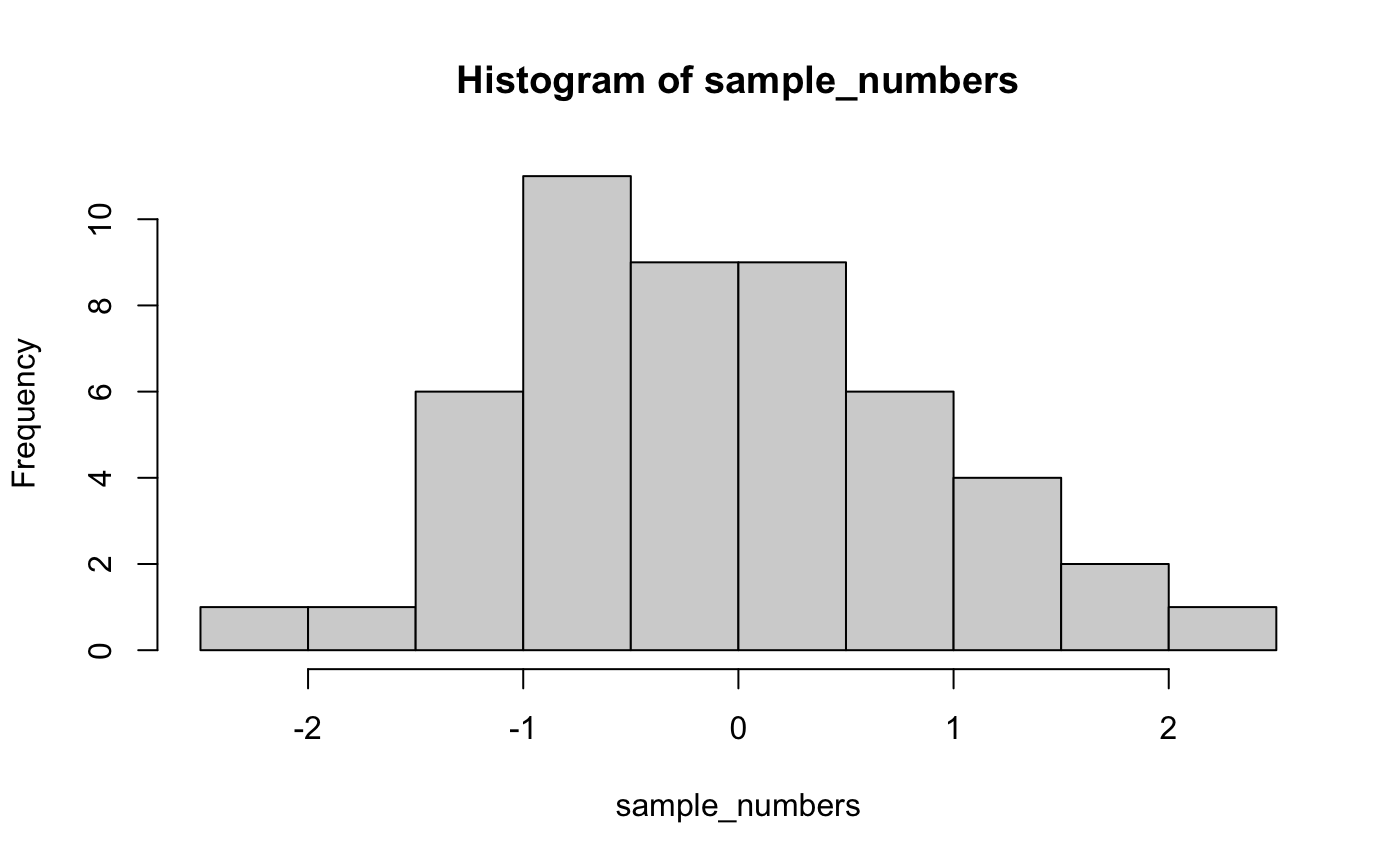
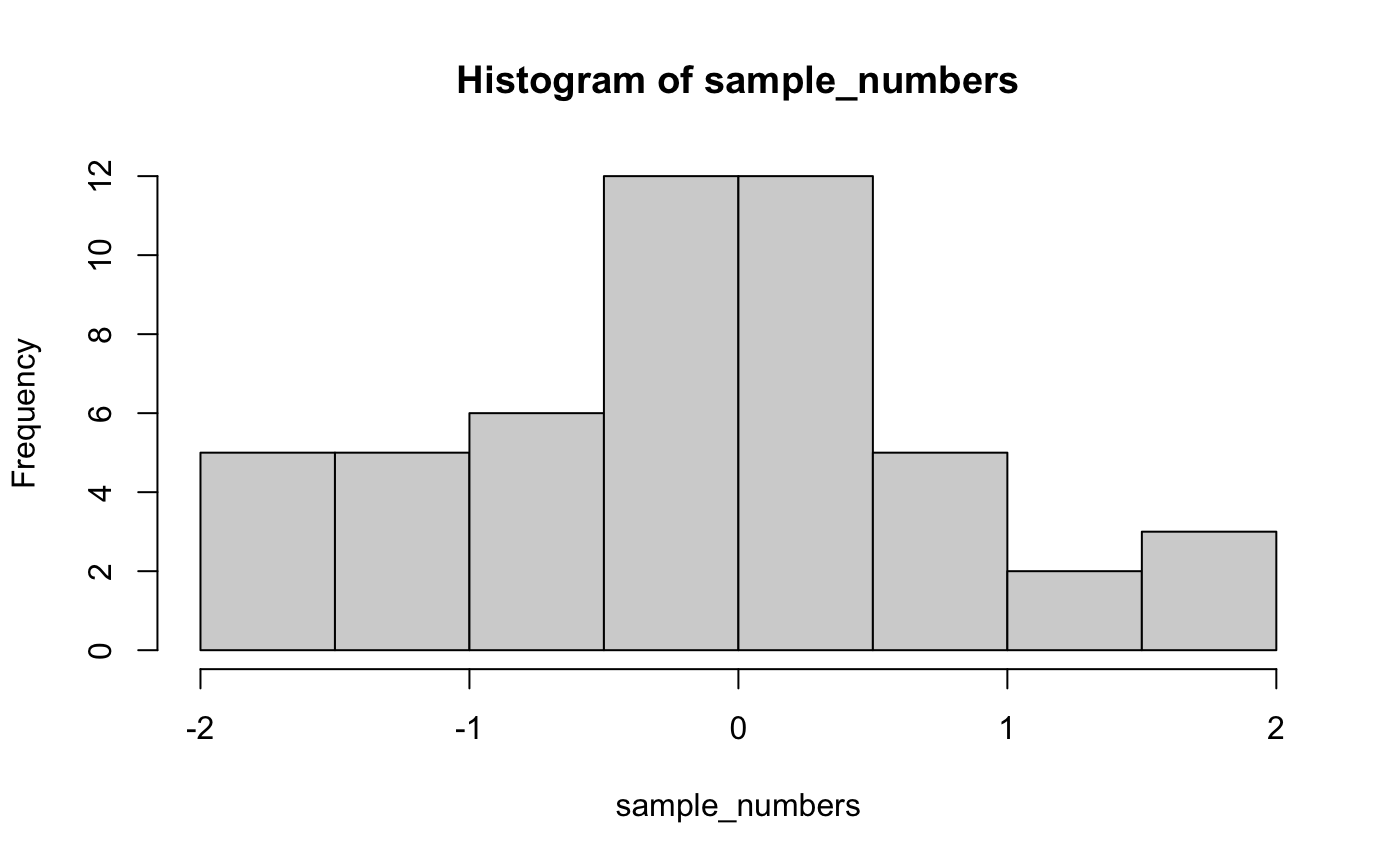
add lab 1 walkthrough

diff --git a/docs/articles/Lab2_Descriptives.html b/docs/articles/Lab2_Descriptives.html
@@ -149,9 +149,9 @@
 <p><img src="Lab2_Descriptives_files/figure-html/unnamed-chunk-3-1.png" width="700"></p>
 <div class="sourceCode" id="cb3"><html><body><pre class="r">
 <span class="fu"><a href="https://rdrr.io/r/base/mean.html">mean</a></span>(<span class="no">sample_numbers</span>)
-<span class="co">#&gt; [1] -0.09689684</span>
+<span class="co">#&gt; [1] -0.1497024</span>
 <span class="fu"><a href="https://rdrr.io/r/stats/sd.html">sd</a></span>(<span class="no">sample_numbers</span>)
-<span class="co">#&gt; [1] 0.9363363</span></pre></body></html></div>
+<span class="co">#&gt; [1] 0.8615013</span></pre></body></html></div>
 </div>
 <div id="central-tendency" class="section level2">
 <h2 class="hasAnchor">
@@ -253,8 +253,90 @@
 
 <span class="fu"><a href="https://rdrr.io/r/base/sum.html">sum</a></span>(<span class="no">scores</span>-<span class="fu"><a href="https://rdrr.io/r/base/mean.html">mean</a></span>(<span class="no">scores</span>)) <span class="co"># the sum</span>
 <span class="co">#&gt; [1] 0</span></pre></body></html></div>
-<p>But, let’s use R to approximate the value of the mean by trying out different values, rather than by computing the mean first. For example, we previously tried a 5, and the sum of the deviations was not 0. What if we tried a bunch of numbers, say from the lowest number (1) to the highest number (64)? Each time we could compute the deviations, and the sum of the deviations. We could record the outcome for each test. Then we could look out our results and see which of the numbers comes closest to creating a sum of deviations that equals 0.</p>
-<p>This will require 64 individual tests, and that is too much do to by hand. Fortunately, we can use R to accomplish these goals very quickly.</p>
+<p>But, let’s use R to approximate the value of the mean by trying out different values, rather than by computing the mean first. For example, we previously tried a 5, and the sum of the deviations was not 0. What if we tried a bunch of numbers, say from the lowest number (1) to the highest number (64)? Each time we could compute the deviations, and the sum of the deviations. We could record the outcome for each test. Then we could look out our results and see which of the numbers comes closest to creating a sum of deviations that equals 0. This will require 64 individual tests, and that is too much do to by hand. Fortunately, we can use R to accomplish these goals very quickly.</p>
+<p>Basically, this is this the process of what I want to do…but I don’t want to write 64 lines of code either…</p>
+<div class="sourceCode" id="cb12"><html><body><pre class="r"><span class="fu"><a href="https://rdrr.io/r/base/sum.html">sum</a></span>(<span class="no">scores</span>-<span class="fl">1</span>)
+<span class="co">#&gt; [1] 99</span>
+<span class="fu"><a href="https://rdrr.io/r/base/sum.html">sum</a></span>(<span class="no">scores</span>-<span class="fl">2</span>)
+<span class="co">#&gt; [1] 88</span>
+<span class="fu"><a href="https://rdrr.io/r/base/sum.html">sum</a></span>(<span class="no">scores</span>-<span class="fl">3</span>)
+<span class="co">#&gt; [1] 77</span>
+<span class="fu"><a href="https://rdrr.io/r/base/sum.html">sum</a></span>(<span class="no">scores</span>-<span class="fl">4</span>)
+<span class="co">#&gt; [1] 66</span>
+<span class="fu"><a href="https://rdrr.io/r/base/sum.html">sum</a></span>(<span class="no">scores</span>-<span class="fl">5</span>)
+<span class="co">#&gt; [1] 55</span>
+<span class="fu"><a href="https://rdrr.io/r/base/sum.html">sum</a></span>(<span class="no">scores</span>-<span class="fl">6</span>)
+<span class="co">#&gt; [1] 44</span>
+<span class="co">## and so on to 64</span></pre></body></html></div>
+<p>If we want to repeatedly apply a similar computation in R, remember we can use a <code>for</code> loop. We will test all of the integers between the smallest value and largest value. So, we first create a sequence of those numbers called <code>numbers_to_test</code>. And, then we use a loop to compute the sum of deviations between the scores and each of the test numbers.</p>
+<div class="sourceCode" id="cb13"><html><body><pre class="r"><span class="fu"><a href="https://rdrr.io/r/base/Extremes.html">min</a></span>(<span class="no">scores</span>)
+<span class="co">#&gt; [1] 1</span>
+<span class="fu"><a href="https://rdrr.io/r/base/Extremes.html">max</a></span>(<span class="no">scores</span>)
+<span class="co">#&gt; [1] 64</span>
+<span class="no">numbers_to_test</span> <span class="kw">&lt;-</span> <span class="fu"><a href="https://rdrr.io/r/base/Extremes.html">min</a></span>(<span class="no">scores</span>):<span class="fu"><a href="https://rdrr.io/r/base/Extremes.html">max</a></span>(<span class="no">scores</span>)
+
+<span class="no">sum_deviations</span> <span class="kw">&lt;-</span><span class="fu"><a href="https://rdrr.io/r/base/c.html">c</a></span>() <span class="co"># create an empty vector to store sums</span>
+<span class="kw">for</span>(<span class="no">i</span> <span class="kw">in</span> <span class="no">numbers_to_test</span>) {
+  <span class="no">sum_deviations</span>[<span class="no">i</span>] <span class="kw">&lt;-</span> <span class="fu"><a href="https://rdrr.io/r/base/sum.html">sum</a></span>(<span class="no">scores</span>-<span class="no">i</span>)
+}
+
+<span class="no">sum_deviations</span>
+<span class="co">#&gt;  [1]   99   88   77   66   55   44   33   22   11    0  -11  -22  -33  -44  -55</span>
+<span class="co">#&gt; [16]  -66  -77  -88  -99 -110 -121 -132 -143 -154 -165 -176 -187 -198 -209 -220</span>
+<span class="co">#&gt; [31] -231 -242 -253 -264 -275 -286 -297 -308 -319 -330 -341 -352 -363 -374 -385</span>
+<span class="co">#&gt; [46] -396 -407 -418 -429 -440 -451 -462 -473 -484 -495 -506 -517 -528 -539 -550</span>
+<span class="co">#&gt; [61] -561 -572 -583 -594</span></pre></body></html></div>
+<p>We just computed 64 sums of deviations, and the results are displayed above. Our question was to approximate the mean, by finding a value that produces a sum of deviations closest to 0. Let’s discuss three ways to get at the answer. First, we could look at the above sums and see that the 10th value is a 0, this means that the number 10 produced the sum of deviations closest to 0 (equaling 0 because 10 is the mean).</p>
+</div>
+<div id="plotting-the-results" class="section level3">
+<h3 class="hasAnchor">
+<a href="#plotting-the-results" class="anchor"></a>Plotting the results</h3>
+<p>Second, we could visualize the sum of the deviations. We could quickly do that with the <code><a href="https://rdrr.io/r/base/plot.html">plot()</a></code> function.</p>
+<div class="sourceCode" id="cb14"><html><body><pre class="r"><span class="fu"><a href="https://rdrr.io/r/base/plot.html">plot</a></span>(<span class="no">sum_deviations</span>)</pre></body></html></div>
+<p><img src="Lab2_Descriptives_files/figure-html/unnamed-chunk-14-1.png" width="700"></p>
+<p>We are looking for the value on the x-axis that causes the sum of the deviations on the y-axis to be closest to 0. One way to help locate this value could be to look at the absolute values. Absolute values remove the negative (-) sign from numbers, leaving everything positive. You can convert to absolute values in R using <code><a href="https://rdrr.io/r/base/MathFun.html">abs()</a></code></p>
+<p>Now, it is easy to see that 10 produces the sum of deviations closest to 0 (in this case it produces a value of 0, because 10 is also the mean).</p>
+<div class="sourceCode" id="cb15"><html><body><pre class="r"><span class="fu"><a href="https://rdrr.io/r/base/plot.html">plot</a></span>(<span class="fu"><a href="https://rdrr.io/r/base/MathFun.html">abs</a></span>(<span class="no">sum_deviations</span>))</pre></body></html></div>
+<p><img src="Lab2_Descriptives_files/figure-html/unnamed-chunk-15-1.png" width="700"></p>
+</div>
+<div id="locating-the-result-using-which" class="section level3">
+<h3 class="hasAnchor">
+<a href="#locating-the-result-using-which" class="anchor"></a>Locating the result using which()</h3>
+<p>Finally, we could use other R functions to help us compute the answer. For example, we could use the <code><a href="https://rdrr.io/r/base/which.html">which()</a></code> function. This function can be used to determine the indices or position of “logically” obtained values in a vector. Is a long way of saying we want R to tell us which position in the vector contains the 0</p>
+<div class="sourceCode" id="cb16"><html><body><pre class="r"><span class="co">#find the positions in vector that equal 0</span>
+<span class="fu"><a href="https://rdrr.io/r/base/which.html">which</a></span>(<span class="no">sum_deviations</span> <span class="kw">==</span> <span class="fl">0</span>)
+<span class="co">#&gt; [1] 10</span>
+
+<span class="co">#show the value in position 10</span>
+<span class="no">sum_deviations</span>[<span class="fl">10</span>]
+<span class="co">#&gt; [1] 0</span>
+
+<span class="co">#all in one</span>
+<span class="no">sum_deviations</span>[ <span class="fu"><a href="https://rdrr.io/r/base/which.html">which</a></span>(<span class="no">sum_deviations</span> <span class="kw">==</span> <span class="fl">0</span>) ]
+<span class="co">#&gt; [1] 0</span></pre></body></html></div>
+</div>
+<div id="minor-details" class="section level3">
+<h3 class="hasAnchor">
+<a href="#minor-details" class="anchor"></a>Minor details</h3>
+<p>The above approach worked pretty well. By a simulation process, we found that 10 produced a sum of deviations that equaled 0. None of the other numbers produced a sum of deviations that equaled 0. However, our example code won’t work very well for other sets of numbers.</p>
+<p>For example, if we used the set of number from 1 to 20, where the mean is 10.5, we find that none of the sums of deviations ever get to 0 (that’s because we are only testing integers between 1 and 20). And, our <code><a href="https://rdrr.io/r/base/which.html">which()</a></code> function will never find a number that is exactly equal to 0.</p>
+<div class="sourceCode" id="cb17"><html><body><pre class="r">
+<span class="no">scores</span> <span class="kw">&lt;-</span> <span class="fl">1</span>:<span class="fl">20</span>
+<span class="no">numbers_to_test</span> <span class="kw">&lt;-</span> <span class="fu"><a href="https://rdrr.io/r/base/Extremes.html">min</a></span>(<span class="no">scores</span>):<span class="fu"><a href="https://rdrr.io/r/base/Extremes.html">max</a></span>(<span class="no">scores</span>)
+
+<span class="no">sum_deviations</span> <span class="kw">&lt;-</span><span class="fu"><a href="https://rdrr.io/r/base/c.html">c</a></span>() <span class="co"># create an empty vector to store sums</span>
+<span class="kw">for</span>(<span class="no">i</span> <span class="kw">in</span> <span class="no">numbers_to_test</span>) {
+  <span class="no">sum_deviations</span>[<span class="no">i</span>] <span class="kw">&lt;-</span> <span class="fu"><a href="https://rdrr.io/r/base/sum.html">sum</a></span>(<span class="no">scores</span>-<span class="no">i</span>)
+}
+
+<span class="no">sum_deviations</span>
+<span class="co">#&gt;  [1]  190  170  150  130  110   90   70   50   30   10  -10  -30  -50  -70  -90</span>
+<span class="co">#&gt; [16] -110 -130 -150 -170 -190</span>
+<span class="fu"><a href="https://rdrr.io/r/base/which.html">which</a></span>(<span class="no">sum_deviations</span> <span class="kw">==</span> <span class="fl">0</span>)
+<span class="co">#&gt; integer(0)</span></pre></body></html></div>
+<p>Here, we need to modify the comparison in the <code><a href="https://rdrr.io/r/base/which.html">which()</a></code> function to return “approximate” numbers that give the sums of deviations closest to zero.</p>
+<div class="sourceCode" id="cb18"><html><body><pre class="r"><span class="fu"><a href="https://rdrr.io/r/base/which.html">which</a></span>(<span class="fu"><a href="https://rdrr.io/r/base/MathFun.html">abs</a></span>(<span class="no">sum_deviations</span>) <span class="kw">==</span> <span class="fu"><a href="https://rdrr.io/r/base/Extremes.html">min</a></span>(<span class="fu"><a href="https://rdrr.io/r/base/MathFun.html">abs</a></span>(<span class="no">sum_deviations</span>)))
+<span class="co">#&gt; [1] 10 11</span></pre></body></html></div>
 </div>
 </div>
 <div id="lab-2-generalization-assignment" class="section level2">
@@ -279,18 +361,7 @@
 <h3 class="hasAnchor">
 <a href="#problems" class="anchor"></a>Problems</h3>
 <ol style="list-style-type: decimal">
-<li>Compute the sum of the sequence 100 to 1000, going up by a constant value of 100 (100,200,300,400,500,600,700,800,900,1000).</li>
-<li>Compute the sum of these numbers (1,3,2,4,3,5,4,3,4,5,6,5,6,7,6,5,6,5,4,3,4,5)</li>
-<li>Write a custom sequence generator function <strong>using a for loop</strong> that generates a sequence from a starting integer value to an ending integer value in steps of 1. Demonstrate that it can produce the sequence 1 to 10.</li>
-<li>Write a custom function to implement the following general equation to find the sum of any constant series:</li>
-</ol>
-<p><span class="math inline">\(X_1 + X_2 + \ldots + X_n = (\frac{X_n-X_1}{c}+1)(\frac{X_1+X_n}{2})\)</span></p>
-<p>Demonstrate that your function correctly produces the sum for the series below:</p>
-<div class="sourceCode" id="cb12"><html><body><pre class="r"><span class="fu"><a href="https://rdrr.io/r/base/seq.html">seq</a></span>(<span class="fl">10</span>,<span class="fl">100</span>,<span class="fl">10</span>)
-<span class="co">#&gt;  [1]  10  20  30  40  50  60  70  80  90 100</span></pre></body></html></div>
-<ol start="5" style="list-style-type: decimal">
-<li>Write a custom function that generates a constant series between any start and end values, with any constant, and finds the sum. Have your function output both the sequence and the sum. For this problem, feel free to use the existing <code><a href="https://rdrr.io/r/base/seq.html">seq()</a></code> and <code><a href="https://rdrr.io/r/base/sum.html">sum()</a></code> functions in your custom function. Demonstrate the function correctly prints out the above sequence (10 to 100 in steps of 10), and its sum.</li>
-<li>Use the <code><a href="https://rdrr.io/r/base/sum.html">sum()</a></code> and the <code><a href="https://rdrr.io/r/base/length.html">length()</a></code> functions to calculate the mean (average) of the numbers <code>x = c(1,2,3,4,5)</code>.</li>
+<li>Demonstrate that the mean minimizes the sum of the squared deviations from the mean.</li>
 </ol>
 </div>
 </div>

diff --git a/docs/articles/Lab1_Basics.html b/docs/articles/Lab1_Basics.html
@@ -661,6 +661,9 @@
 <div id="lab-1-generalization-assignment" class="section level2">
 <h2 class="hasAnchor">
 <a href="#lab-1-generalization-assignment" class="anchor"></a>Lab 1 Generalization Assignment</h2>
+<p>Follow the instructions below to complete the assignment for lab 1 and hand it in by the due date on blackboard. For the first lab I have taken the extra step of pretending I was student in this course, and completed the first lab myself. This next video shows how I would complete the lab if I was a student. It is important that you try to solve the problems on your own, but please use this video as a resource to help you if you get stuck.</p>
+<iframe width="560" height="315" src="https://www.youtube.com/embed/FLD3K-jLmjs" frameborder="0" allow="accelerometer; autoplay; encrypted-media; gyroscope; picture-in-picture" allowfullscreen>
+</iframe>
 <div id="instructions" class="section level3">
 <h3 class="hasAnchor">
 <a href="#instructions" class="anchor"></a>Instructions</h3>
